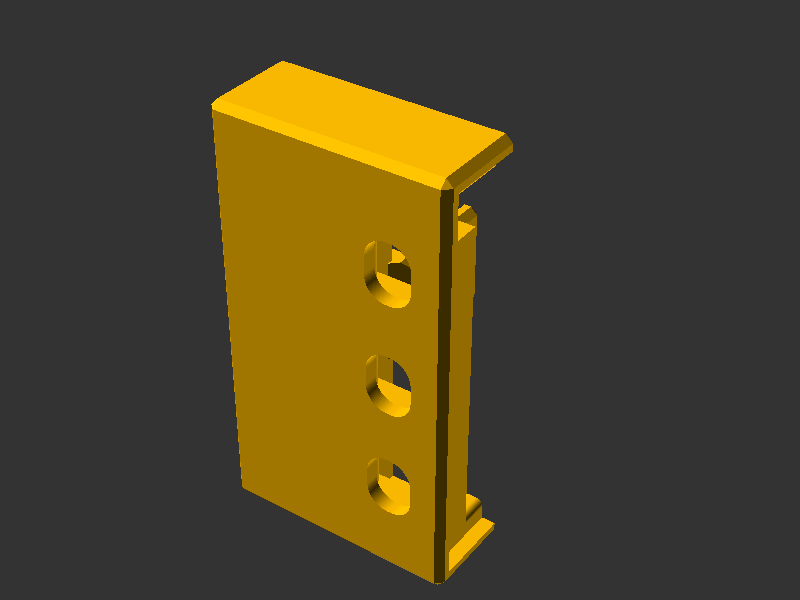
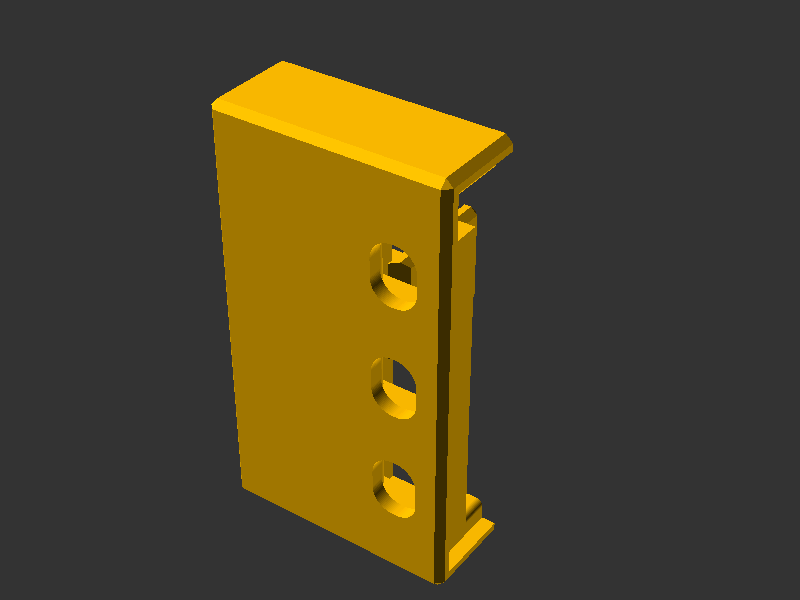
feat(rackmount_adapter): place cage nut holes per EIA-310 and document rack standards

diff --git a/models/rackmount_adapter/rack-standards.md b/models/rackmount_adapter/rack-standards.md
@@ -1,0 +1,58 @@
+# 📐 Rack Standards
+
+## 📌 What
+
+The [rackmount adapter](README.md) places its mounting holes per EIA-310, the 19" rack standard, and scales the same geometry to any other width. Rack equipment that fits a standard 19" rack fits the 19" adapter; 10" and other widths follow the same rules at their width.
+
+| Width | Status | Defined by |
+|---|---|---|
+| 19" | Formal standard | EIA-310 (revision D 1992, CEA-310-E 2005), IEC 60297-3-100 (482.6 mm series), DIN 41494 |
+| 10" | Industry convention, no formal standard | Vendors scale the 19" rail and keep its unit height. Often called a "half rack". |
+| Any other inch | Same scaling, no standard | This adapter's `inches` parameter |
+
+## 🤔 Why
+
+### 📏 Dimensions
+
+Only the overall width changes between sizes; everything else is the 19" geometry.
+
+| Dimension | Rule | 19" | 10" | Source |
+|---|---|---|---|---|
+| Rack unit (1U) | 1.75" | 44.45 mm | 44.45 mm | EIA-310 |
+| Holes per unit | ½"-⅝"-⅝", unit boundary in the middle of the ½" gap | 6.35 / 22.225 / 38.1 mm from the unit edge | same | EIA-310, IBM |
+| Panel width | width in inches | 482.6 mm | 254 mm | EIA-310, Micropolis |
+| Rail (mount surface) width | 0.625" | 15.875 mm | 15.875 mm | Micropolis |
+| Clear opening | width − 1.25" | 450.85 mm | 222.25 mm | IBM, Cisco, Micropolis |
+| Hole spacing, center to center | width − 0.688" | 465.125 mm | 236.525 mm | IBM, RackSolutions, Project MINI RACK |
+| Panel edge to hole center | 0.344" | 8.74 mm | 8.74 mm | derived from the two above |
+
+- IBM's EIA-310-D requirements give the 19" hole spacing as 18.3", +0.03" (465 mm, +0.8 mm) and the opening as 17.75", +0.03". The adapter's 18.312" and 17.75" sit inside both.
+- The unit pattern is vertically symmetric, so equipment also fits upside down.
+
+### 🎯 Hole position
+
+The holes sit 8.74 mm in from the panel edge, not on the center of the 15.875 mm mount surface (7.94 mm). Version 1 of the adapter, the [10"](https://makerworld.com/en/models/1353730-modular-10-server-rack#profileId-1396918) and [19"](https://makerworld.com/en/models/1503491-modular-19-server-rack#profileId-1573137) models on MakerWorld, centered them, which spaces the holes 1.6 mm wider than EIA-310. The [decision record](../../docs/decisions/space-rackmount-adapter-holes-per-eia-310.md) has the details.
+
+### 🔩 Cage nuts
+
+The rail is a printed part with a pocket for each cage nut, which goes in from the back. It takes M6 cage nuts made for the standard 9.5 mm square hole. The hook pocket is 12.6 mm wide, which leaves two perimeters to the rail's inner edge and holds a fully tightened screw in a print test.
+
+### 🚫 What it doesn't follow
+
+- **Western Electric 23"**: holes on 1" vertical centers, incompatible with the EIA-310 unit pattern.
+- **ETSI ETS 300 119**: a separate metric system with 535 mm rail-to-rail width and 25 mm hole spacing.
+
+## 🔧 How
+
+- `STD_RACK_BORE_EDGE_DISTANCE_X` in [constants.scad](../core/lib/constants.scad) holds the 8.74 mm, derived from the 19" panel and the 18.312" spacing.
+- `get_adapter_gapfill()` fills the space between the HomeRacker frame and the panel edge, so the panel edge, and with it every hole, lands on the standard position for the chosen width.
+
+## 📚 References
+
+- [IBM: Rack specifications, EIA-310-D](https://www.ibm.com/docs/en/n-series?topic=specifications-requirements): hole spacing and opening with tolerances, hole pattern
+- [Cisco Firepower 4100 install guide](https://www.cisco.com/c/en/us/td/docs/security/firepower/4100/hw/guide/b_install_guide_4100/mount_and_connect.pdf): 17.75" opening
+- [Micropolis Rack Mounting FAQ](https://www.micropolis.com/support/kb/rack-mounting-faq): 10" and 19" panel width, rail width, opening and hole spacing
+- [RackSolutions: EIA-310](https://www.racksolutions.com/news/data-center-optimization/eia-310-definition): unit boundary and 18.312" spacing
+- [Project MINI RACK](https://mini-rack.jeffgeerling.com/): 10" hole spacing and its missing standard
+- [IEC 60297-3-100](https://standards.iteh.ai/catalog/standards/iec/f329c3df-a975-4331-bc72-105e377e9d8a/iec-60297-3-100-2008): the international 482.6 mm series
+- [Wikipedia: 19-inch rack](https://en.wikipedia.org/wiki/19-inch_rack): overview, 23" and ETSI formats

diff --git a/docs/decisions/space-rackmount-adapter-holes-per-eia-310.md b/docs/decisions/space-rackmount-adapter-holes-per-eia-310.md
@@ -1,0 +1,37 @@
+# 📋 Space rackmount adapter holes per EIA-310 and scale the 19" geometry to any width
+
+## 📌 Status
+
+**Accepted**: 2026-11-22
+
+## 🤔 Context
+
+- The [rackmount adapter](../../models/rackmount_adapter/README.md) replaces the rack rail, so its cage nut holes have to line up with standard rack equipment.
+- Version 1, the [10"](https://makerworld.com/en/models/1353730-modular-10-server-rack#profileId-1396918) and [19"](https://makerworld.com/en/models/1503491-modular-19-server-rack#profileId-1573137) adapters on MakerWorld, and the first draft of this one centered each hole on the 0.625" (15.875 mm) mount surface. That spaces the holes width − 0.625": 466.725 mm on 19", 238.125 mm on 10".
+- EIA-310 sets the 19" hole spacing to 18.312" (465.1 mm). [IBM's EIA-310-D requirements](https://www.ibm.com/docs/en/n-series?topic=specifications-requirements) allow 465 mm, +0.8 mm. Centered holes sat 1.6 mm wider, outside that.
+- 10" has no formal standard. Vendors scale the 19" rail and use 9.312" (236.525 mm) between holes ([Project MINI RACK](https://mini-rack.jeffgeerling.com/), [Micropolis](https://www.micropolis.com/support/kb/rack-mounting-faq)). Centered holes sat 1.6 mm wider here too.
+- The standard puts each hole 0.344" from the panel edge, 0.031" off the center of the 0.625" rail.
+
+## 🔧 Decision
+
+- Each hole center sits `STD_RACK_BORE_EDGE_DISTANCE_X` = (19" − 18.312") / 2 = 8.7376 mm in from the panel edge, for every width. The spacing becomes width − 0.688": 465.125 mm on 19", 236.525 mm on 10".
+- Any other width scales the same 19" geometry: 0.625" rails, a width − 1.25" opening, the EIA-310 vertical pattern (1U = 44.45 mm, ½"-⅝"-⅝").
+- The cage nut hook pocket narrows from 13.4 to 12.6 mm, so the wall to the rail's inner edge stays at two perimeters (0.84 mm) after the move. A print test with a fully tightened M6 screw held.
+- The details and sources live in [rack standards](../../models/rackmount_adapter/rack-standards.md).
+
+Alternatives rejected:
+
+| Alternative | Reason |
+|---|---|
+| Center the holes on the mount surface | 1.6 mm wider than EIA-310 and the 10" convention, outside the 19" tolerance |
+| Move the holes outward within tolerance for a thicker wall | Two perimeters only fit outside the +0.8 mm tolerance |
+| Western Electric 23" pattern | Holes on 1" vertical centers, incompatible with the EIA-310 unit pattern |
+| ETSI ETS 300 119 | A separate metric system with 25 mm hole spacing |
+
+## 📊 Consequences
+
+- ✅ 19" matches EIA-310 and IEC 60297-3-100; 10" matches what vendors build.
+- ✅ One constant covers every width, so the any-inch claim rests on a single scaling rule.
+- ⚠ Widths other than 10" and 19" follow that rule, not a standard; no rack vendor guarantees them.
+- ⚠ Western Electric 23" and ETSI racks don't fit.
+- ⚠ The narrower pocket compresses the cage nut hooks about 0.5 mm per side; tested with one cage nut brand.

diff --git a/models/rackmount_adapter/README.md b/models/rackmount_adapter/README.md
@@ -11,7 +11,7 @@ From the HomeRacker side to the rack side, each adapter has:
 - **Sleeve**: wraps the vertical front support, secured with a lock pin.
 - **Mount bridge with connector covers**: covers the connectors above and below the adapter and rests against their arms, which carries the load into the rack.
 - **Gap fill**: widens the adapter so the rack rail lands on the standard rack width.
-- **Rack rail**: square cage nut holes for M6 cage nuts, three per rack unit.
+- **Rack rail**: square cage nut holes for M6 cage nuts, three per rack unit, placed per EIA-310 (see [rack standards](rack-standards.md)).
 - **End cover docks**: pockets at the top and bottom for end covers that close off the adapter.
 
 It succeeds the [10"](https://makerworld.com/en/models/1353730-modular-10-server-rack#profileId-1396918) and [19"](https://makerworld.com/en/models/1503491-modular-19-server-rack#profileId-1573137) adapters on MakerWorld.
@@ -55,6 +55,8 @@ Open `parts/rackmount_adapter.scad` in OpenSCAD and use the **Customizer** panel
 
 - ⚠ Print the right side with `side = right`. Mirroring the part in the slicer mirrors the engraved markings too.
 - The markings sit on the side that faces the connectors: an up arrow on the top cover, the inch width and rack units on the bottom cover.
+- 🔩 Insert the cage nuts before the adapter goes onto the rack. The gap fill next to the rack rail is narrowest on 10" racks (0.5 mm per side, with 7" and 20" close behind), which leaves little room to reach a cage nut once mounted. Any adapter comes off on its own, without taking the rack apart.
+- 🔩 Tested with [deleyCON M6 cage nuts](https://www.amazon.de/s?k=deleyCON+M6+K%C3%A4figmuttern) (relaxed hook span 13.58 mm). Cage nuts aren't standardized beyond the 9.5 mm square hole: pick M6 nuts rated for about 2 mm panel thickness. Nuts made for thin panels (under about 1.8 mm, like [RS type N](https://uk.rs-online.com/web/p/cage-nuts/2662268)) may not seat.
 
 **Library usage**, include in your own model:
 
@@ -81,6 +83,7 @@ scadm export-png models/rackmount_adapter/parts/rackmount_adapter.scad
 
 ## 📚 References
 
+- [Rack standards](rack-standards.md): which rack dimensions the adapter follows, with sources
 - [Sleeve](../sleeve/README.md): wraps the vertical front support
 - [Rackmount Ears](../rackmount_ears/README.md): mount devices into a standard rack
 - [HomeRacker core](../core/README.md): base constants and measurements

diff --git a/docs/decisions/README.md b/docs/decisions/README.md
@@ -6,6 +6,7 @@ Lightweight records capturing the **why** behind architecture, tooling, and work
 
 | Decision | Date | Summary |
 |---|---|---|
+| [space-rackmount-adapter-holes-per-eia-310](space-rackmount-adapter-holes-per-eia-310.md) | 2026-11-22 | Rackmount adapter holes sit 0.344" in from the panel edge (EIA-310 465.1 mm spacing on 19"), and every width scales the 19" geometry; 23" Western Electric and ETSI aren't supported |
 | [print-optimized-kl-cuboid](print-optimized-kl-cuboid.md) | 2026-11-21 | `kl_cuboid` in essentials is the preferred cuboid: roundings on vertical edges, chamfers on top and bottom edges, a chamfer covers every side joined by roundings |
 | [refresh-lock-files-weekly](refresh-lock-files-weekly.md) | 2026-11-21 | Renovate regenerates the lock files every Saturday, so fixed transitive versions land within the five-day cooldown; weekly updates run on Saturday only |
 | [print-bed-fit-library](print-bed-fit-library.md) | 2026-11-21 | Generic `print_bed.scad` in essentials returns the longest part per bed width, diagonal included; printer presets from OrcaSlicer profiles |
